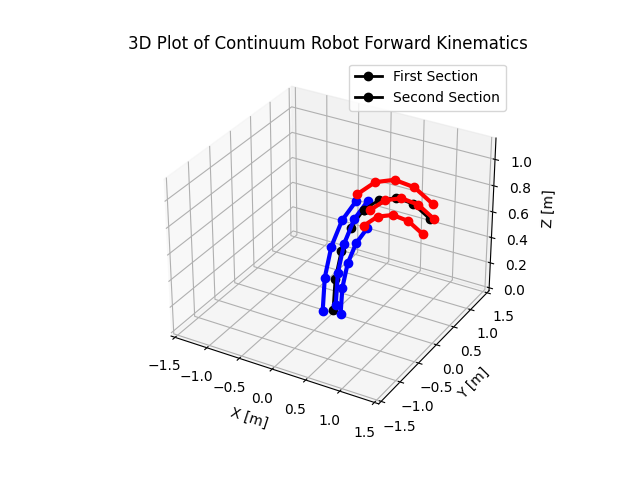
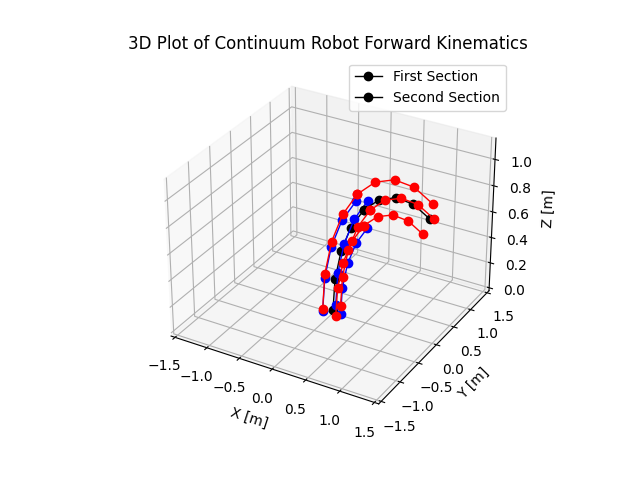
c

Changed region(s): [[0.5, 0.375, 0.6875, 0.6875], [0.625, 0.4688, 0.6562, 0.5]]

diff --git a/kinematics/pcc_forward.py b/kinematics/pcc_forward.py
@@ -106,14 +106,7 @@ def arc1_point(T1,s1_hole,d):
 
 def arc2_point(T2_cc,T2,s2_hole,d):
     #d = 35.285/246
-    arc2_points=[]
-    for i in range(len(T2_cc)):
-        for j in range(len(s2_hole)):
-            x = d * np.cos(s2_hole[j])
-            y = d * np.sin(s2_hole[j])
-            z = 0
-            p = np.matmul(np.reshape(T2[i, :], (4, 4), order='F'), np.array([x, y, z, 1]))
-            arc2_points.append(p)
+    arc2_points = arc1_point(T2_cc,s2_hole,d)
     for i in range(len(T2)):
         for j in range(len(s2_hole)):
             x = d * np.cos(s2_hole[j])
@@ -128,20 +121,21 @@ def visual(T1,T1_hole,T2,T2_hole):
     fig = plt.figure()
     ax = fig.add_subplot(111, projection='3d')
     # Plotting First Section
-    ax.plot(T1[:, 12], T1[:, 13], T1[:, 14], label="First Section", color='black', linewidth=2, marker='o')
+    ax.plot(T1[:, 12], T1[:, 13], T1[:, 14], label="First Section", color='black', linewidth=1, marker='o')
 
     # Reshape and Plot Holes for First Section
     for i in range(3): 
         holes_reshaped = np.array(T1_hole).reshape(5, 3, 4)
-        ax.plot(holes_reshaped[:, i, 0], holes_reshaped[:, i, 1], holes_reshaped[:, i, 2], color='blue', linewidth=3, marker='o')
+        ax.plot(holes_reshaped[:, i, 0], holes_reshaped[:, i, 1], holes_reshaped[:, i, 2], color='blue', linewidth=1, marker='o')
 
     # Plotting Second Section
-    ax.plot(T2[:, 12], T2[:, 13], T2[:, 14], label="Second Section", color='black', linewidth=2, marker='o')
+    ax.plot(T2[:, 12], T2[:, 13], T2[:, 14], label="Second Section", color='black', linewidth=1, marker='o')
 
     # Reshape and Plot Holes for Second Section
     for i in range(3):
         holes_reshaped = np.array(T2_hole).reshape(10, 3, 4)
-        ax.plot(holes_reshaped[:, i, 0], holes_reshaped[:, i, 1], holes_reshaped[:, i, 2], color='red', linewidth=3, marker='o')
+        #print('reshaped',holes_reshaped)
+        ax.plot(holes_reshaped[:, i, 0], holes_reshaped[:, i, 1], holes_reshaped[:, i, 2], color='red', linewidth=1, marker='o')
     
     # add k and phi values on diagram
     #ax.text(T1[-1, 12], T1[-1, 13], T1[-1, 14], f'k1={k1:.2f},\n phi1={phi1:.4f}', fontsize=8, ha='right', va='bottom')
@@ -171,7 +165,16 @@ def cable_len(T1_hole,T2_hole):
             l2_len.append(np.sum(distances))
         elif i == 2:
             l3_len.append(np.sum(distances))
-
-    return l1_len,l2_len,l3_len
+    for i in range(3):
+        T2_reshaped = np.array(T2_hole).reshape(10, 3, 4)
+        # Calculating Length of Cable
+        distances = np.linalg.norm(T2_reshaped[:, i, :3] - np.roll(T2_reshaped[:, i, :3], shift=1, axis=0), axis=1)
+        if i == 0:
+            l4_len.append(np.sum(distances))
+        elif i == 1:
+            l5_len.append(np.sum(distances))
+        elif i == 2:
+            l6_len.append(np.sum(distances))
+    return l1_len,l2_len,l3_len,l4_len,l5_len,l6_len
 
 

diff --git a/tests/pcc_calculation.py b/tests/pcc_calculation.py
@@ -85,16 +85,17 @@ T2 = multiple_trans_matrix(T2_cc,T1_tip); # multiply T1 and T2 to get the robot 
 T2_tip = np.reshape(T2[len(T2)-1,:],(4,4),order='F');# reshape to 4*4 matrix
 
 # turn central point to three holes
-T2_hole = arc2_point(T2_cc,T2,s2_hole,d)  #15 arrays, each of(hole4, hole5,hole6,1)
+T2_hole = arc2_point(T2_cc,T2,s2_hole,d)  #30 arrays, each of(hole4, hole5,hole6,1)
 T2_1,T2_2,T2_3 = T2_hole[-1][:3]
 #print('T2 holes\n',T2_hole);
 #print('T1 tipss\n',T2_1,T2_2,T2_3);
 #print('T2 transmatrix\n',T2);
 #print('tip of the robot\n',T2_tip);
 
-visual (T1,T1_hole,T2,T2_hole)
-#T1_len = cable_len(T1_hole)
-#print("cable length of first segment are",T1_len) # ([2.02887214168416], [2.154659209378555], [1.6852154818079672])
+
+l6_len = cable_len(T1_hole,T2_hole)
+print("cable length of first segment are",l6_len) # ([2.02887214168416], [2.154659209378555], [1.6852154818079672])
+robot_3d = visual (T1,T1_hole,T2,T2_hole)
 '''
 # Plotting First Section
 ax.plot(T1[:, 12], T1[:, 13], T1[:, 14], label="First Section", color='blue', linewidth=2, marker='o')
